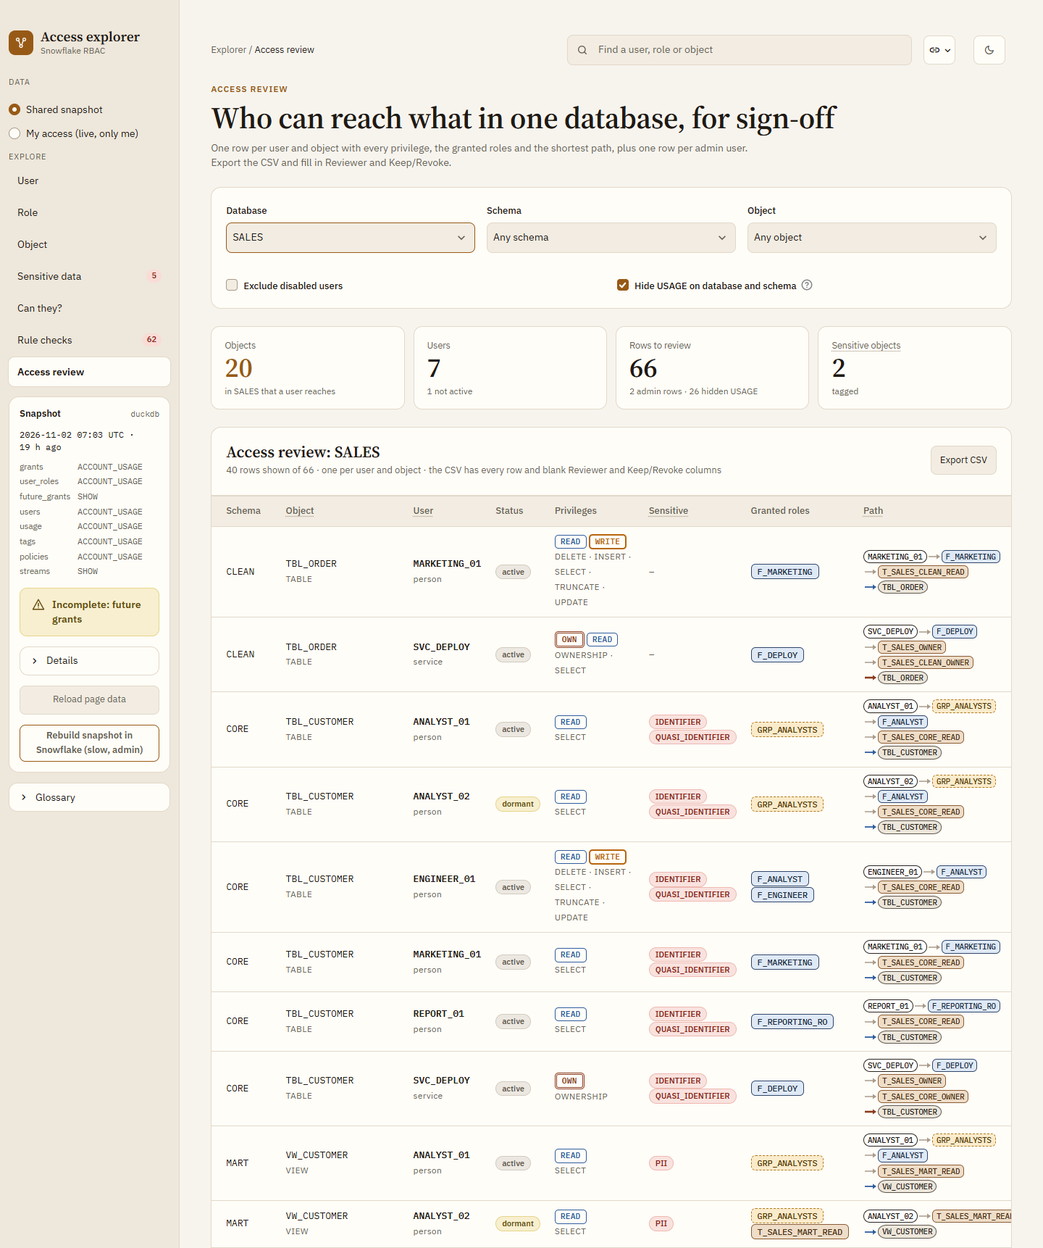
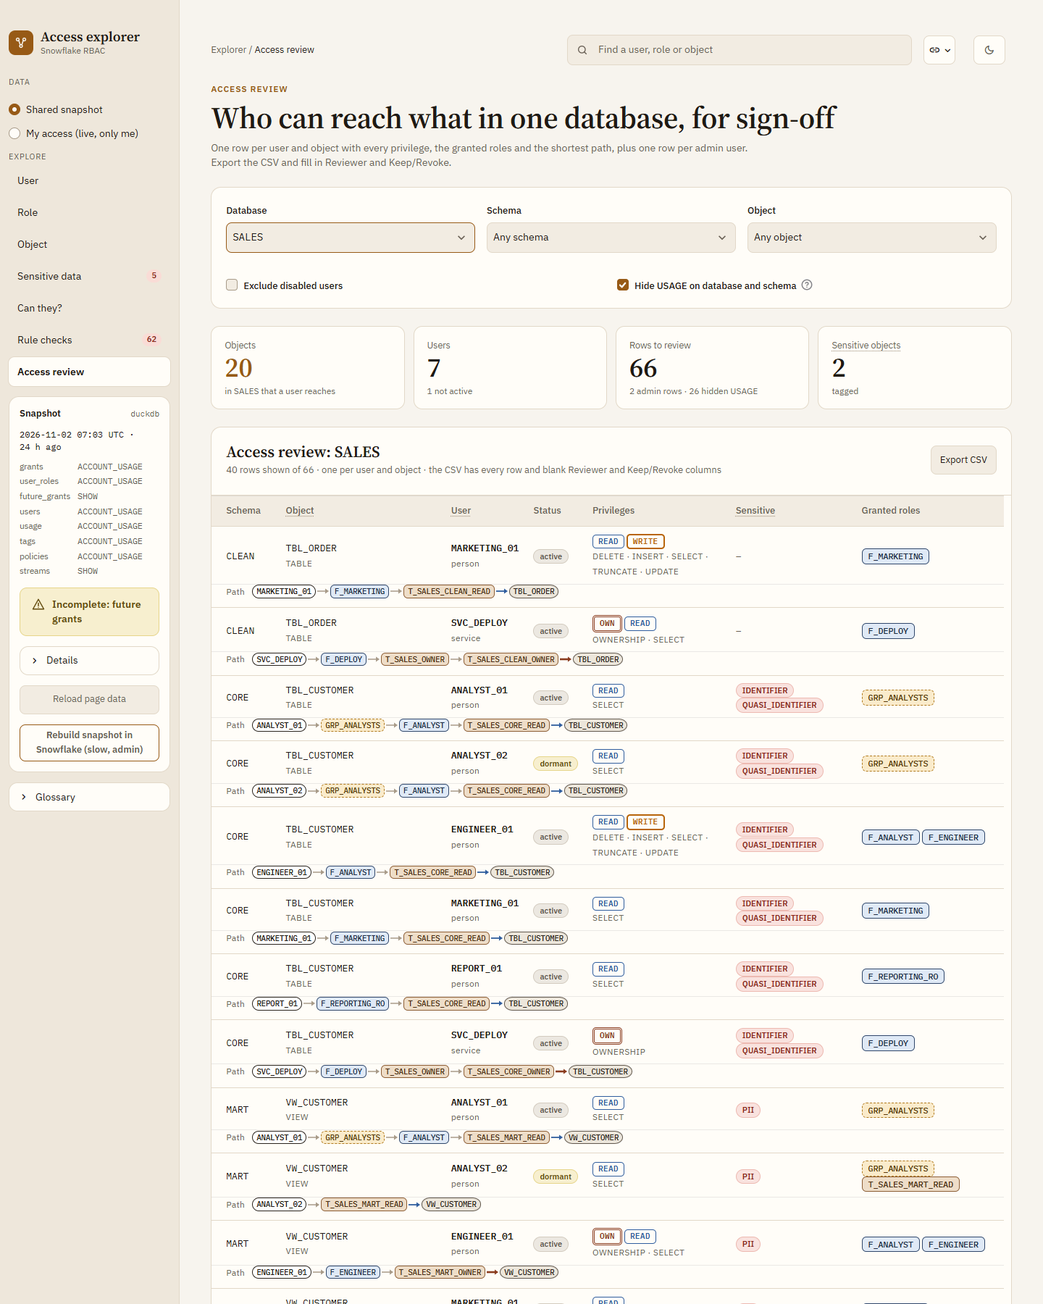
Same-name user and role kept apart, Find lists both, review path on its own line
- up() ends a user path with its graph node id, so user X and role X holding the
  same role get one row each; from_user() reads it; exports show the plain name
- users_through(), rules 11/13, ask_for, held-by revoke picks and table links use
  the known kind instead of guessing from the name
- Find box lists a role named like a user next to the user
- Access review: path on a full-width line under each row (no right-edge clip)

diff --git a/access-explorer/app.py b/access-explorer/app.py
@@ -285,9 +285,10 @@ def find():
         return
     for k in [k for k in st.session_state if k.startswith(("f_", "pick_")) and k != "f_data"]:
         del st.session_state[k]
-    with lock():  # a callback runs before main takes the lock; page_of reads the shared lookups
-        page = page_of(n)
-    st.query_params.from_dict(kept() | {"page": page, "name": n})
+    with lock():  # a callback runs before main takes the lock; node_kind reads the shared lookups
+        k, name = a.node_kind(n), a.node_name(n)
+    st.query_params.from_dict(kept() | {"page": "user" if k == "user" else "object" if k == "object" else "role",
+                                        "name": name})
     st.session_state.find = None
 
 
@@ -331,12 +332,14 @@ def rchip(n, title=""):
 
 def mpath(p, cls="", first=None):
     """A path as a mini chain graph (ui.mini_path): start, roles, maybe an object; long ones collapse. first: the kind
-    of p[0] when known (a role named like a user stays a role); later names are roles or the object."""
+    of p[0] when known (a role named like a user stays a role); later names are roles or the object. p[0] may be a
+    graph node id (a.uid): a user named like a role, as up() paths start."""
     nodes = []
     for i, n in enumerate(p):
-        k = (first or a.kind_of(n)) if i == 0 else a.role_kind(n)
+        name = a.node_name(n) if i == 0 else n
+        k = (a.node_kind(n) if name != n or not first else first) if i == 0 else a.role_kind(n)
         lab = a.future_label(n, a.kinds.get(n, "")) or (a.split_name(n)[2] if k == "object" else None)
-        nodes.append((n, k, href_k(n, k), lab if lab != n else None))
+        nodes.append((n, k, href_k(name, k), lab if lab != n else None))
     return ui.mini_path(nodes, cls)
 
 
@@ -352,14 +355,14 @@ def edge_cls(f):
     return a.priv_class(g[2], a.kinds.get(g[1], "")) if g and g[2] else ""
 
 
-def strong(n, caption="", bad=False):
+def strong(n, caption="", bad=False, kind=None):
     cap = f'<br><span class="ae-small{" ae-ink-bad" if bad else ""}">{e(caption)}</span>' if caption else ""
-    return (f'<a class="ae-strong" style="color:var(--ink);text-decoration:none" href="{e(href(n))}" '
+    return (f'<a class="ae-strong" style="color:var(--ink);text-decoration:none" href="{e(href_k(n, kind) if kind else href(n))}" '
             f'target="_self">{e(n)}</a>{cap}')
 
 
-def kind_label(n):
-    k = a.kind_of(n)
+def kind_label(n, k=None):
+    k = k or a.kind_of(n)
     if k == "user":
         p = a.profile.get(n) or {}
         s = a.status(n) if n in a.profile else ""
@@ -368,7 +371,8 @@ def kind_label(n):
 
 
 def arrow(p):
-    return " > ".join(p)
+    """A path as text; a user named like a role (a.uid, as up() paths start) by its own name."""
+    return " > ".join([a.node_name(p[0])] + list(p[1:])) if p else ""
 
 
 def plural(n, word):
@@ -1047,7 +1051,8 @@ def holds_card(r, hold, s):
 
 def held_card(r, up, only_users):
     """Held by (up), full width, with "If revoked from": who loses r, and which privileges, net of other paths."""
-    direct = sorted(set(a.held_by.get(r, [])) | set(a.users_of.get(r, [])))
+    # graph node ids (a.uid): user X and role X holding r are two picks, matched against held()'s paths
+    direct = sorted(set(a.held_by.get(r, [])) | {a.uid(u, True) for u in a.users_of.get(r, [])})
     with st.container(key="card_held"):
         left, right = st.columns([3, 2], vertical_alignment="bottom")
         n_users = sum(x["kind"] == "user" for x in up)
@@ -1060,18 +1065,18 @@ def held_card(r, up, only_users):
         if cut:
             for x in up:
                 if all((cut, r) in zip(p, p[1:]) for p in x["paths"]):
-                    lost.add(x["grantee"])
+                    lost.add((x["grantee"], x["kind"]))
                     if x["kind"] == "user":
-                        loses[x["grantee"]] = a.loses(x["grantee"], cut, r)
-            iac, sql = a.fix_text([a.role_edge(cut, r, a.kind_of(cut) == "user")])
-            html(ui.banner("warn", f"Revoking {e(r)} from {e(cut)}: {plural(len(lost), 'grantee')} lose it, "
+                        loses[x["grantee"]] = a.loses(x["grantee"], a.node_name(cut), r)
+            iac, sql = a.fix_text([a.role_edge(a.node_name(cut), r, a.node_kind(cut) == "user")])
+            html(ui.banner("warn", f"Revoking {e(r)} from {e(a.node_name(cut))}: {plural(len(lost), 'grantee')} lose{'s' * (len(lost) == 1)} it, "
                                    f"{plural(len(loses), 'user')} among them", [e(iac), ui.mono(sql)]))
         cols = ["Grantee", "Depth", "Only via", "Path", "Paths"] + (["Loses"] if cut else [])
         rows = []
         for x in up:
             g = x["grantee"]
-            cap = kind_label(g) + (" · granted directly" if x["direct"] else "")
-            row = [strong(g, cap) + (" " + tag("loses it", "bad") if g in lost else ""), ui.depth(x["depth"]),
+            cap = kind_label(g, x["kind"]) + (" · granted directly" if x["direct"] else "")
+            row = [strong(g, cap, kind=x["kind"]) + (" " + tag("loses it", "bad") if (g, x["kind"]) in lost else ""), ui.depth(x["depth"]),
                    " ".join(rchip(n) for n in x["only_via"]) or '<span class="ae-muted">–</span>',
                    mpath(x["path"], first=x["kind"]), str(x["count"])]
             if cut:
@@ -1157,7 +1162,7 @@ def object_page():
         merged.setdefault((x["grantee"], x["kind"], tuple(x["path"])), []).append(x)
     table_card("grantees", "All grantees", "roles and users · path read toward the object",
                ["Grantee", "Privilege", "Depth", "Path", "Paths"],
-               [[strong(k[0], kind_label(k[0]) if k[1] == "user" else KIND.get(k[1], "Group role")),
+               [[strong(k[0], kind_label(k[0], k[1]), kind=k[1]),
                  " ".join(ui.pclass(y["cls"], y["privilege"]) for y in v), ui.depth(v[0]["depth"]), mpath(list(k[2]), v[0]["cls"], k[1]),
                  str(max(y["count"] for y in v))] for k, v in merged.items()],
                [[k[0], k[1], a.status(k[0]) if k[1] == "user" else "", *a.split_name(o, t)[:2],
@@ -1416,7 +1421,7 @@ def check_page():
                     + mpath(r["ask"][0]["path"], a.priv_class(pv, a.kinds[o]), "role"))
         elif r["closest"]:
             body = (f'<p class="ae-muted">No functional role reaches {e(pv)}. It sits with this chain:</p>'
-                    + mpath(r["closest"], a.priv_class(pv, a.kinds[o]), "role"))
+                    + mpath(r["closest"], a.priv_class(pv, a.kinds[o])))
         else:
             body = f'<p class="ae-muted">No role holds {e(pv)} on {e(o)}.</p>'
         html(ui.card("What to ask for", "", body))
@@ -1686,7 +1691,7 @@ def review_page():
     keys = ["database", "schema", "object", "type", "user", "user_type", "status", "last_login", "privileges", "classes",
             "sensitive", "granted", "path", "reviewer", "decision"]
     head = (["Database"] if db == "*" else []) + ["Schema", "Object", "User", "Status", "Privileges", "Sensitive",
-                                                  "Granted roles", "Path"]
+                                                  "Granted roles"]
     rows = [([ui.mono(x["database"])] if db == "*" else []) + [
         ui.mono(x["schema"]), (e(a.future_label(f'{x["database"]}.{x["schema"]}.{x["object"]}', x["type"]) or "")
                                or ui.mono(x["object"])) + f'<br><span class="ae-small">{e(x["type"] or "")}</span>',
@@ -1695,14 +1700,17 @@ def review_page():
         + f'<br><span class="ae-small">{e(x["privileges"].replace(", ", " · "))}</span></div>',
         " ".join(tag(t.split("=", 1)[-1], "bad", t) for t in x["sensitive"].split(", ") if t)
         or '<span class="ae-muted">–</span>',
-        " ".join(rchip(r) for r in x["granted"].split(", ") if r),
-        mpath(x["path"].split(" > "), x["classes"].split(", ")[0], "user") if x["path"] else ""] for x in shown]
+        " ".join(rchip(r) for r in x["granted"].split(", ") if r)] for x in shown]
+    # the path on its own full-width line: as a column it pushed the table past the card's right edge
+    subs = [f'<div class="ae-sub-path"><span class="ae-small">Path</span>'
+            f'{mpath(x["path"].split(" > "), x["classes"].split(", ")[0], "user")}</div>' if x["path"] else ""
+            for x in shown]
     filt = [f"schema {sc}"] * bool(sc) + [f"object {ob}"] * bool(ob) + ["disabled excluded"] * active
     table_card("review", f"Access review: {where}", f"{plural(len(shown), 'row')} shown of {len(rs)} · one per user and "
                "object · the CSV has every row and blank Reviewer and Keep/Revoke columns"
                + (" · " + e(", ".join(filt)) if filt else ""), head, rows,
                [[x[k] if x[k] is not None else "" for k in keys] for x in rs],
-               f"No user reaches an object in {where}.", min_width=880, data_cols=cols,
+               f"No user reaches an object in {where}.", min_width=760, data_cols=cols, subs=subs,
                fname=f"access_review_{'ALL' if db == '*' else db}_{datetime.now():%Y-%m-%d}.csv",
                head=[["Access review", where], ["Run", a.run.get("RUN_ID"), when],
                      ["Filter", ", ".join(filt) or "all users"], ["Generated", f"{datetime.now():%Y-%m-%d %H:%M}"]])
@@ -1858,7 +1866,8 @@ def rules_page(rows):
                  f'{e(xs[0]["num"])} · {e(xs[0]["title"])}</span>',
                  who_cell(xs), f'<span class="ae-det">{wbr(xs[0]["detail"])}</span>'
                  + (f'<br><span class="ae-small">and {len(xs) - 1} more like it</span>' if len(xs) > 1 else ""),
-                 mpaths(xs[0]["paths"], edge_cls(xs[0]), top=2),
+                 mpaths(xs[0]["paths"], edge_cls(xs[0]), top=2,
+                        first=xs[0]["kind"] if all(p[0] == xs[0]["grantee"] for p in xs[0]["paths"]) else None),
                  f'<span class="ae-tip" title="users who lose access when the fix is applied, net of their other '
                  f'paths">{e(xs[0]["impact"])}</span>'] for xs in gs],
                [[x["num"], x["title"], x["severity"], x["grantee"], x["detail"], x["iac"], x["sql"],
@@ -1907,7 +1916,8 @@ def topbar(page, names):
     html(ui.crumb(PAGES[page]), c[0])
     c[1].selectbox("Find", names, index=None, key="find", on_change=find, label_visibility="collapsed",
                    placeholder="Find a user, role or object",
-                   format_func=lambda n: f"{n}  ·  {kind_label(n)}" + ("  ·  sensitive" if n in SENS else ""))
+                   format_func=lambda n: f"{a.node_name(n)}  ·  {kind_label(a.node_name(n), a.node_kind(n))}"
+                   + ("  ·  sensitive" if n in SENS else ""))
     slot = c[2].popover("", icon=":material/link:", help="Copy a link to this view").empty()
     c[3].button("", key="theme", on_click=flip, help="Switch light / dark",
                 icon=":material/light_mode:" if THEME == "dark" else ":material/dark_mode:")
@@ -2002,7 +2012,8 @@ def main():
                 html(ui.banner("warn", f"Incomplete: {e(k.replace('_', ' '))}"), notes)
                 with notes.expander("Details"):
                     st.caption(str(v))
-        names = a.users + [r for r in a.roles if r not in a.profile] + a.objects if d is not None else []
+        # graph node ids (a.uid), so a role named like a user is listed too
+        names = [a.uid(u, True) for u in a.users] + a.roles + a.objects if d is not None else []
         with top:
             slot = topbar(page, names)
         if d is None:

diff --git a/access-explorer/access.py b/access-explorer/access.py
@@ -523,7 +523,8 @@ def down(path, limit=None, user=False):
 
 
 def up(path, limit=None):
-    """Every simple path from path[-1] up to the roles and users that hold it. limit: max hops from path[0]."""
+    """Every simple path from path[-1] up to the roles and users that hold it. limit: max hops from path[0].
+    A user ends a path as its graph node id (uid), so user X and role X holding the same role stay apart."""
     yield path
     nxt = [r for r in held_by.get(path[-1], []) if r not in path]
     us = users if path[-1] == "PUBLIC" else users_of.get(path[-1], [])  # every user holds PUBLIC; it is never listed
@@ -531,7 +532,7 @@ def up(path, limit=None):
         for r in nxt:
             yield from up(path + [r], limit)
         for u in us:
-            yield path + [u]
+            yield path + [uid(u, True)]
 
 
 def bfs(path):
@@ -548,9 +549,9 @@ def bfs(path):
     return best
 
 
-def users_through(name):
-    """Users who reach a role (every user for PUBLIC); a user name gives itself."""
-    return {name} if kind_of(name) == "user" else ups(name)[1]
+def users_through(name, user=False):
+    """Users who reach a role (every user for PUBLIC); user=True: the user name itself."""
+    return {name} if user else ups(name)[1]
 
 
 def ups(role):
@@ -854,18 +855,18 @@ def account_privs(name, user=False, default_only=False, limit=None):
 
 def admin_holders():
     """Users and roles holding an admin role: rows (grantee, path grantee->...->admin role)."""
-    return [(p[-1], p[::-1]) for r in sorted(ADMIN) for p in list(up([r]))[1:]]
+    return [(node_name(p[-1]), p[::-1]) for r in sorted(ADMIN) for p in list(up([r]))[1:]]
 
 
 def from_user(path):
-    """path grantee->...->role starts at a user (not at a role of the same name)."""
-    return len(path) > 1 and path[0] in (users if path[1] == "PUBLIC" else users_of.get(path[1], []))
+    """path grantee->...->role (from up()) starts at a user, not at a role of the same name (see uid)."""
+    return len(path) > 1 and path[0] not in cached("rset", lambda: set(roles))
 
 
 def who_can(obj, kind=None, limit=None):
     """Who has which privilege on obj (of type kind): rows (grantee, privilege, path grantee->...->holder).
     limit: max depth (grant holder = 1, see depth())."""
-    rows = [(p[-1], pv, p[::-1]) for r, pv, k in on.get(obj, []) if kind in (None, k) for p in up([r], limit)]
+    rows = [(node_name(p[-1]), pv, p[::-1]) for r, pv, k in on.get(obj, []) if kind in (None, k) for p in up([r], limit)]
     return [x for x in rows if limit is None or depth(x[2], from_user(x[2])) <= limit]
 
 
@@ -1389,7 +1390,7 @@ def held(role, limit=None):
     """Role page, held by (up). Row: grantee, kind, depth (roles from the grantee to this role, both included;
     a user holding it directly = 1, a role holding it directly = 2), direct, path (shortest, grantee->...->role),
     paths, count, only_via (roles every path passes through: revoking one of them removes it)."""
-    g = group(((p[-1], from_user(p[::-1])), p[::-1]) for p in list(up([role], limit))[1:])
+    g = group(((node_name(p[-1]), from_user(p[::-1])), p[::-1]) for p in list(up([role], limit))[1:])
     out = []
     for (x, u), ps in sorted(g.items(), key=lambda x: (len(x[1][0]), x[0])):
         d = depth(ps[0], u)
@@ -1457,7 +1458,7 @@ def admin_users():
 def admin_people():
     """Users holding an admin role or an account-level privilege (MANAGE GRANTS, ...), service users included.
     Row: user, roles, paths (user->...->admin role), account [(privilege, path)], service, status, last_login, days."""
-    ps = group((p[0], p) for x, p in admin_holders() if from_user(p))
+    ps = group((x, p) for x, p in admin_holders() if from_user(p))
     acct = {u: account_privs(u, True) for u in users}
     return [dict(user=u, roles=sorted({p[-1] for p in ps.get(u, [])}), paths=ps.get(u, []), account=acct[u],
                  service=is_service(u), status=status(u), last_login=(profile.get(u) or {}).get("LAST_SUCCESS_LOGIN"),
@@ -1886,7 +1887,7 @@ def lose(e):
 def losing(e):
     g, x, out = e["grantee"], e["to"], set()
     hs = {r for r, pv, k in on.get(x, []) if pv == e["priv"]} - {g}  # other holders of the privilege
-    for v in users_through(g):
+    for v in users_through(g, e.get("user")):
         sts, kids, cnt, _ = cached(("walk", v), lambda: fast(v, True))  # counted, not listed: big accounts stay fast
         if e["priv"] is None:  # every path to x uses the link g -> x
             via = sum(s == [v, x] for s in sts) if e.get("user") else cnt.get(g, 0) * kids.get(g, []).count(x)
@@ -1900,7 +1901,7 @@ def losing(e):
 def losers(edges, priv, obj):
     """Users who no longer hold priv on obj once every edge in edges is cut (each of their paths uses one)."""
     gone = {(e["grantee"], e["to"]) for e in edges}
-    us = set().union(*(users_through(e["grantee"]) for e in edges))
+    us = set().union(*(users_through(e["grantee"], e.get("user")) for e in edges))
     return {v for v in us if all(gone & set(zip(p, p[1:] + [obj])) for pv, k, o, p in access_of(v, True)
                                  if pv == priv and o == obj)}
 
@@ -1940,7 +1941,7 @@ def ask_for(priv, obj):
     [dict(role, privileges, path)]. Build roles (BUILD) and roles that reach an admin role are never suggested."""
     out = {}
     for x, pv, p in who_can(obj):
-        if (pv == priv and kind_of(x) == "functional" and (x not in out or len(p) < len(out[x]))
+        if (pv == priv and not from_user(p) and role_kind(x) == "functional" and (x not in out or len(p) < len(out[x]))
                 and not any(fnmatch.fnmatch(x, b) for b in BUILD) and not reaches_admin(x)):
             out[x] = p + [obj]
     return sorted((dict(role=r, privileges=sum(len(granted.get(y, [])) for y in bfs([r])), path=p)
@@ -2002,7 +2003,7 @@ def review(db=None):
                             privileges=", ".join(sorted(pv for pv, _ in v)),
                             classes=", ".join(sorted({priv_class(pv, kinds.get(o)) for pv, _ in v})),
                             sensitive=", ".join(sorted({tag_label(t, val) for _, t, val, _ in sens.get(o, [])})),
-                            granted=", ".join(sorted({p[1] for p in ps})), path=" > ".join(ps[0] + [o]),
+                            granted=", ".join(sorted({p[1] for p in ps})), path=" > ".join([x] + ps[0][1:] + [o]),
                             reviewer="", decision=""))
     for u, rs in sorted(adm.items()):
         out.append(dict(database=db or "(every database)", schema="", object="(every object, through an admin role)",
@@ -2150,7 +2151,7 @@ def rules_model():
                 if not g.startswith(TECH) and not is_build(g):
                     out.append(find("4", g, r, [g, r], [role_edge(g, r)]))
     for r in roles:  # 13; technical roles without holders are the model's unused capability roles, by design
-        if kind_of(r) in ("functional", "group") and r != "PUBLIC" and not users_of.get(r) and not held_by.get(r):
+        if role_kind(r) in ("functional", "group") and r != "PUBLIC" and not users_of.get(r) and not held_by.get(r):
             kids = sorted(holds.get(r, []))
             out.append(find("13", r, f"holds {plural(len(kids), 'role')}" + (f": {', '.join(kids)}" if kids else "")
                             + f"; {plural(len(granted.get(r, [])), 'privilege')} of its own", [r],
@@ -2227,7 +2228,7 @@ def rules_sensitive():
             out.append(find("10", u, "; ".join(f"{', '.join(pv)} on {o}" for o, pv in v.items()),
                             min((best[r] for _, _, r in got[o0]), key=len) + [o0], edges, user=True))
     for r in roles:  # 11: the fix cuts every held role (and own grant) that leads to sensitive data
-        if kind_of(r) == "group":
+        if role_kind(r) == "group":
             got = reads([r])
             objs = sorted(set(got) & set(s))
             if objs:
@@ -2333,13 +2334,13 @@ def rule19():
         best = {}
         for p in up([h]):
             q, u = p[::-1], from_user(p[::-1])
-            if (u and not is_service(q[0])) or (not u and role_kind(q[0]) in ("functional", "group")
-                                                and not is_build(q[0])):
-                if (q[0], u) not in best or len(q) < len(best[(q[0], u)]):
-                    best[(q[0], u)] = q
+            x = node_name(q[0])
+            if (u and not is_service(x)) or (not u and role_kind(x) in ("functional", "group") and not is_build(x)):
+                if (x, u) not in best or len(q) < len(best[(x, u)]):
+                    best[(x, u)] = q
         for (x, u), q in sorted(best.items()):
             out.append(find("19", x, "EXECUTE TASK on ACCOUNT " + (f"via {' > '.join(q[1:])}" if len(q) > 1 else
-                                                                   "granted directly"), q + [o],
+                                                                   "granted directly"), [x] + q[1:] + [o],
                             [priv_edge(h, pv, k, o)], user=u))
     return out
 

diff --git a/access-explorer/test_access.py b/access-explorer/test_access.py
@@ -610,11 +610,26 @@ def test_namespaces():
     assert {r["role"]: r["kind"] for r in a.reach("Z", True)}["Z"] == "group"  # the role, not the user
     ge = {(r["grantee"], r["kind"]): r for r in a.grantees("D.S.Z")}
     assert ge[("Z", "group")]["depth"] == 1 and ge[("Z", "user")]["depth"] == 2
-    assert not a.from_user(["Z"]) and a.from_user(["Z", "R9", "Z"])
+    assert not a.from_user(["Z"]) and a.from_user(["Z" + a.UTAG, "R9", "Z"]) and not a.from_user(["Z", "R9"])
     assert {(r["grantee"], r["kind"]) for r in a.held("R9")} == {("Z", "user")}
+    # user X and role X both hold R2: one row each, counted once each
+    assert sorted((r["grantee"], r["kind"], r["count"]) for r in a.held("R2")) == [("X", "group", 1), ("X", "user", 1)]
+    assert a.role_stats("R2")["users"] == 1 and a.role_stats("R2")["above"] == 1
+    assert sorted((r["grantee"], r["kind"], r["depth"]) for r in a.grantees("D.S.T")) ==         [("R2", "group", 1), ("X", "group", 2), ("X", "user", 1)]
+    assert a.object_stats("D.S.T")["users"] == 1 and a.object_stats("D.S.T")["roles"] == 2
+    assert [m["user"] for m in a.matrix("D.S.T")] == ["X"] and [r["user"] for r in a.review() if r["object"] == "T"] == ["X"]
     a.build(tiny([("R2", "X")], [], [("R2", "SELECT", "TABLE", "D.S.T")]) | dict(USER=[dict(USER_NAME="X")]))
     assert not a.from_user(["X", "R2"])  # a user X exists, but only role X holds R2
     assert [(r["grantee"], r["kind"]) for r in a.grantees("D.S.T")] == [("R2", "group"), ("X", "group")]
+    # role X (held by user Y) and user X both hold R2: cutting role X -> R2 takes it from Y, not from user X
+    a.build(tiny([("X", "Y0"), ("R2", "X")], [("X", "Y"), ("R2", "X")], [("R2", "SELECT", "TABLE", "D.S.T")]))
+    assert a.users_through("X") == {"Y"} and a.users_through("X", True) == {"X"}
+    assert a.lose(a.role_edge("X", "R2")) == {"Y"} and a.lose(a.role_edge("X", "R2", True)) == {"X"}
+    # rule 13 sees role Z although a user Z exists; rule 19 paths start at the plain user name
+    a.build(tiny([], [("R9", "Z"), ("R2", "X")], [("Z", "SELECT", "TABLE", "D.S.T"), ("R9", "SELECT", "TABLE", "D.S.U"),
+                                                  ("R2", "EXECUTE TASK", "ACCOUNT", "ACCT"), ("X", "SELECT", "TABLE", "D.S.T")]))
+    assert {c[2] for c in a.checks() if c[0] == "13"} >= {"Z", "X"}
+    assert ["X", "R2", "ACCT"] in [c[4] for c in a.checks() if c[0] == "19"]
     # graphs: user Z and role Z are two boxes; the role page walks the role, not the user
     a.build(tiny([("Z", "R9"), ("T2", "Z")], [("R9", "Z"), ("A", "Z")],
                  [("A", "SELECT", "TABLE", "D.S.T1"), ("T2", "SELECT", "TABLE", "D.S.T2")]))

diff --git a/access-explorer/test_sql.py b/access-explorer/test_sql.py
@@ -65,16 +65,9 @@ def check_access_of(con, name, user, limit):
 
 
 def check_who_can(con, obj, priv, limit):
-    # kind from how up() builds a path (a user is appended last, from users_of), not from from_user(), which calls a
-    # user and a role of the same name both a user; who_can() keeps every path the limit allows, re-filtered here
-    want = Counter()
-    for (x, pv, p), c in Counter((x, pv, tuple(p)) for x, pv, p in a.who_can(obj, limit=limit) if priv in (None, pv)).items():
-        nr = 1 if len(p) == 1 else a.held_by.get(p[1], []).count(p[0])
-        nu = 0 if len(p) == 1 else (a.users if p[1] == "PUBLIC" else a.users_of.get(p[1], [])).count(p[0])
-        for kind, n in (("role", nr), ("user", nu)):
-            d = len(p) - (kind == "user")
-            if n and (limit is None or d <= limit):
-                want[(x, kind, pv, d, " > ".join(p))] += n * c // (nr + nu)
+    want = Counter((x, "user" if a.from_user(p) else "role", pv, a.depth(p, a.from_user(p)),
+                    " > ".join([a.node_name(p[0])] + p[1:]))
+                   for x, pv, p in a.who_can(obj, limit=limit) if priv in (None, pv))
     same(rows(con, "SELECT * FROM TF_WHO_CAN(?, ?, ?)", [obj, priv, limit]), want, f"TF_WHO_CAN({obj}, {priv}, {limit})")
     return sum(want.values())
 

diff --git a/access-explorer/ui.py b/access-explorer/ui.py
@@ -351,6 +351,7 @@ details.ae-mpd[open]>summary .ae-mp-less{{display:inline-flex;margin-bottom:3px}
 .ae-table td .ae-mp,.ae-table td .ae-mps{{min-width:200px}}
 .ae-det{{display:block;min-width:170px;font-family:{MONO};font-size:12.5px}}
 .ae-table td .ae-wide{{min-width:360px}}
+.ae-sub-path{{display:flex;align-items:center;gap:10px}}.ae-table td .ae-sub-path .ae-mp{{min-width:0}}
 .ae-rt{{display:inline-block;min-width:170px;max-width:240px;font-size:12px}}
 .ae-ty{{display:inline-flex;align-items:center;gap:4px;white-space:nowrap;font-size:12px;color:var(--muted)}}.ae-ty i{{font-style:normal;font-family:{MONO};color:var(--ink)}}
 .ae-hl{{display:inline-flex;width:20px;height:20px;align-items:center;justify-content:center;border-radius:5px;font-size:12px}}
